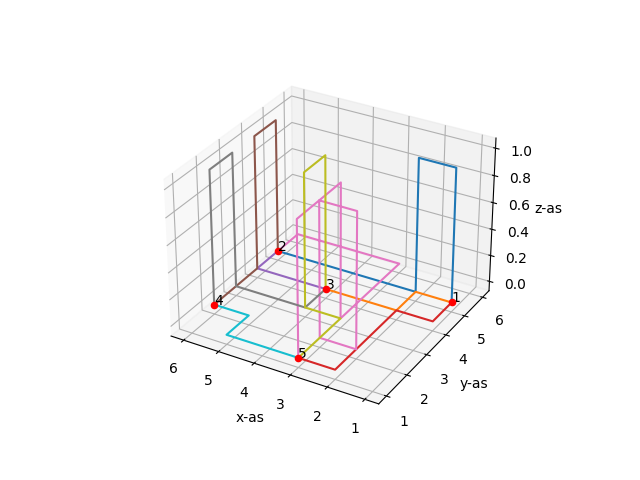
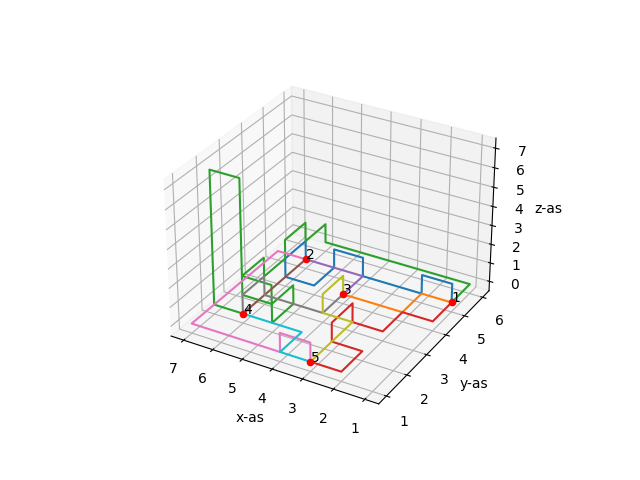
Was working on steered_random, now writing for deadline

diff --git a/code/algorithms/steered_random.py b/code/algorithms/steered_random.py
@@ -28,6 +28,15 @@ class steered_random_routes:
         
         return [i[1] for i in nets_with_length]
 
+    def select_outer_nets(self, netlist):
+        """
+        Takes the netlist of a grid as input
+        Determines which nets are most on the sides of the grid
+        Returns an ordered list where the first nets are the most on the outside
+        """
+
+        pass
+
     def check_direction(self, net, direction):
         """
         Takes a net object and a direction as input
@@ -51,8 +60,8 @@ class steered_random_routes:
                 return False
 
         # if the crossing will become an intersection, try to avoid it
-        # if (to_be_added_crossing.initial_amount_of_directions - len(to_be_added_crossing.directions)) > 1:
-        #     return False
+        if (to_be_added_crossing.initial_amount_of_directions - len(to_be_added_crossing.directions)) > 1:
+            return False
 
         return True
 
@@ -80,7 +89,6 @@ class steered_random_routes:
 
                 # select this net as current net in the grid
                 self.grid.choose_net(net)
-                print(f"starting on {net}")
 
                 # run until net is finished
                 while not net.finished:
@@ -89,8 +97,7 @@ class steered_random_routes:
 
                     # if net is stuck, delete net and break
                     if not possible_directions:
-                        print(f"{net} failed")
-                        # self.grid.delete_net(net, -1)
+                        self.grid.delete_net(net, -1)
                         succes = False
                         break
                 
@@ -116,8 +123,7 @@ class steered_random_routes:
                             
                             # if none of the directions are possible, register net as failure
                             if found_direction == False:
-                                print(f"{net} failed")
-                                # self.grid.delete_net(net, -1)
+                                self.grid.delete_net(net, -1)
                                 succes = False
                                 break
 
@@ -147,6 +153,12 @@ class steered_random_routes:
 
             ordered_nets = [i for i in ordered_nets if i not in succeeded_nets]
             tries -= 1
+
+        succesful = True
+        for net in self.grid.netlist:
+            if net.finished == False:
+                succesful = False
+        print(f"All nets have succeeded: {succesful}")
 
         total_costs = 300 * self.grid.amount_of_intersections + self.total_wires_length
         self.grid.get_output(total_costs)

diff --git a/code/classes/net.py b/code/classes/net.py
@@ -59,7 +59,7 @@ class Net:
             coordinate_list.append(tuple(coordinates))
         return coordinate_list
              
-    def get_route_to_end(self, current_crossing):
+    def get_route_to_end(self, current_crossing = ""):
         """
         Returns the amount of steps still needed in a certain direction as a list, order: x, y, z
         If net is finished, returns None
@@ -90,8 +90,19 @@ class Net:
         self.finished = False
 
     def get_length(self):
+
         """
         Returns an int of the length of the route so far
         """
 
         return len(self.routelist) - 1
+
+    def reverse(self):
+        """
+        Reverses the start and the end of a net
+        """
+
+        start = self.start
+        self.start = self.end
+        self.end = start
+        self.routelist  = [self.start]

diff --git a/main.py b/main.py
@@ -19,7 +19,7 @@ if __name__ == "__main__":
 
     # Testing steered random algorithm
     steered_random_object = steered_random.steered_random_routes(grid)
-    steered_random_object.run(1)
+    steered_random_object.run(50)
 
     # Testing A* algorithm
     # a = astar.Astar(grid)

diff --git a/docs/ANALYSE.md b/docs/ANALYSE.md
@@ -60,9 +60,11 @@ Dan zie je ook het random aspect in het algoritme terug, omdat het niet zo goed 
 
 Wat kan er nog verbeterd worden?
 * De selectie van welke nets eerst gelegd worden kan uitgebreid worden.
-* Het pad 1-4 faalt vaak, omdat deze als laatst gelegd wordt en er 3 nets naar 4 gaan, het algoritme snapt niet dat het kort 'om kan lopen' en dus het niet lukt.
-Dit kan beter door bv aan de start, voor elke gat en elk net, de richtingen vanaf de gates te verdelen. Dit kan echter ook een verplaatsing van hetzelfde probleem zijn.
+* Het pad 1-4 faalt vaak, omdat deze als laatst gelegd wordt en er 3 nets naar 4 gaan, het algoritme snapt niet dat het kort 'om kan lopen' en daardoor faalt het.
+Dit kan beter door bv aan de start, voor elke gate en elk net, de richtingen vanaf de gates te verdelen. Dit kan echter ook een verplaatsing van hetzelfde probleem zijn.
 * Hoe deal je met Fog of war principe
 * Reflect op paden die er al liggen op basis van toekomst
-* Test links, rechts en overheen, verwijder daarna gewoon weer, korte wegen proberen
+* Test links, rechts en overheen, verwijder daarna gewoon weer, kortste wegen proberen
 * Waarom gaat hij 7 plekken volledig omhoog, dan opzij en dan alle 7 weer omlaag?
+* Ipv random een pad te kiezen, altijd zo veel mogelijk naar de buitenkant afwijken?
+* Paden met 4 nets eerder leggen dan met minder?

diff --git a/docs/PROCESS.md b/docs/PROCESS.md
@@ -59,3 +59,9 @@
 | Matthijs | 10:00 | 15:00 | Working on hillclimber algorithm |
 | Matthijs | 17:00 | 19:30 | Working on hillclimber algorithm |
 | Birgit | 22:30 | 00:00 | Wrote down ideas for improving algorithm in analysis |
+
+## 19-01-2021
+| Name | Start-time | End-time | Description |
+| --- | --- | --- | --- |
+| Birgit | 10:00 | 10:30 | Resolving proxy errors |
+| Birgit | 10:30 | | Working out ideas of yesterday for the algorithm |
